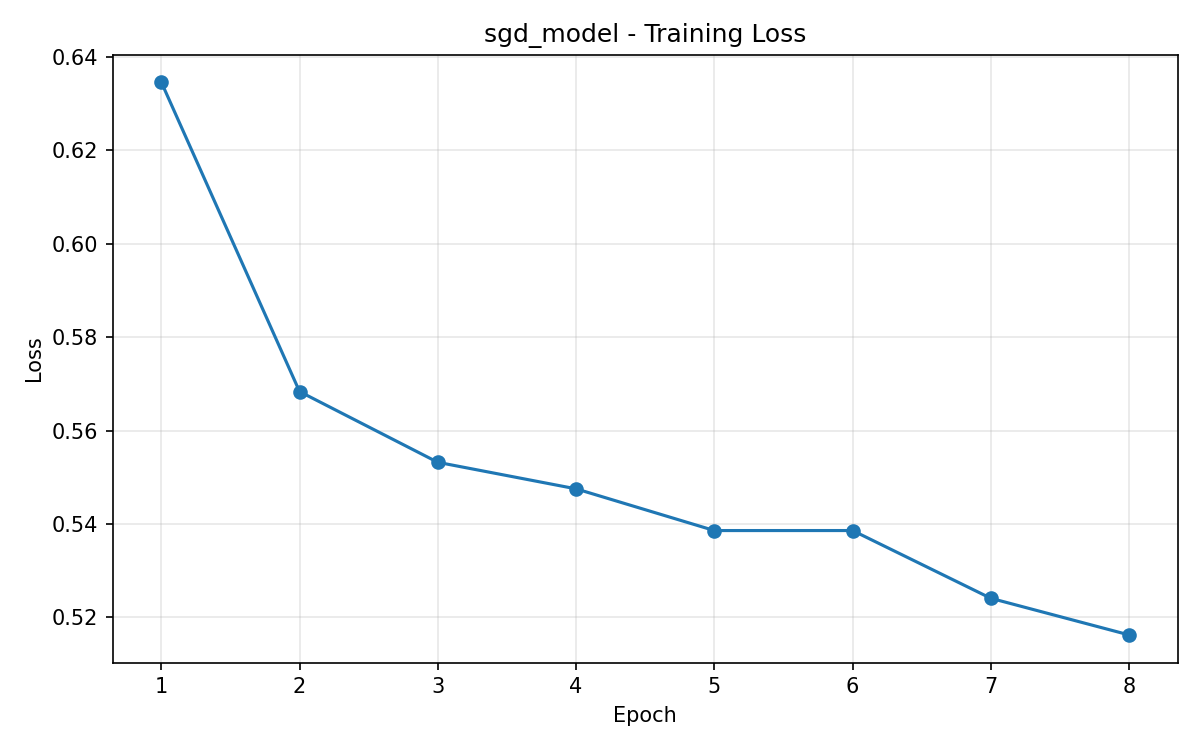
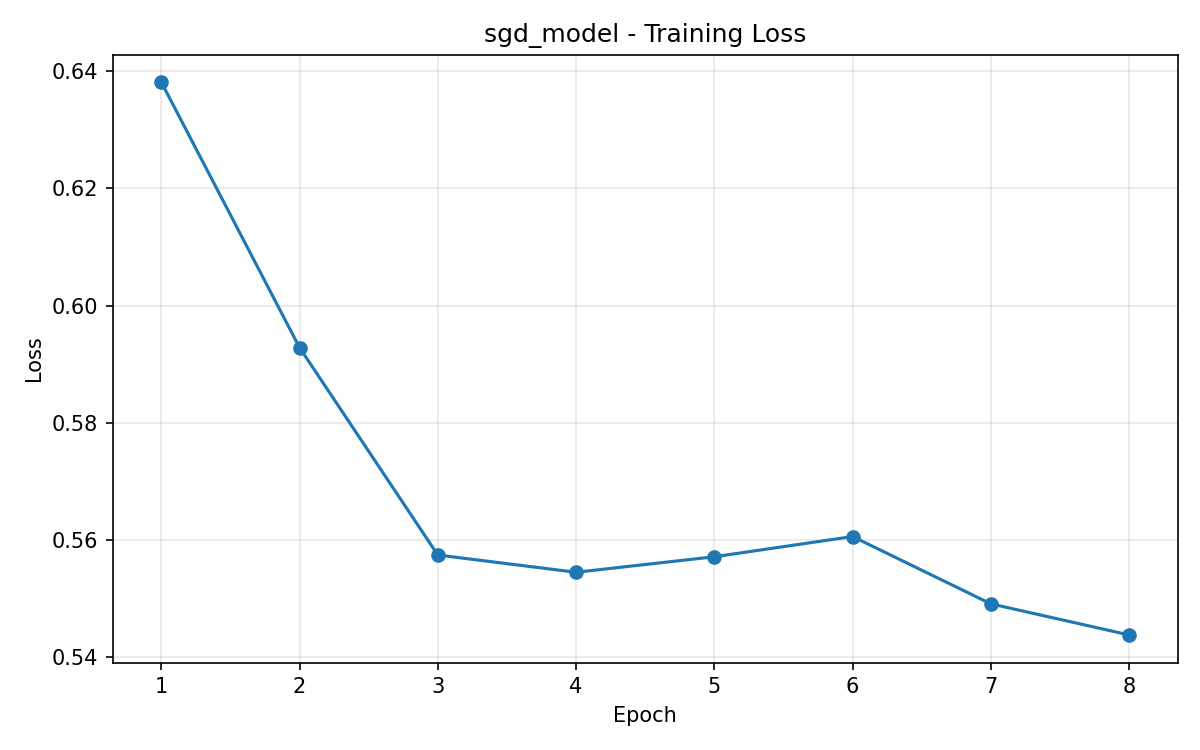
adjusted ColorJitter in supervised_learning to match

diff --git a/src/unsupervised.py b/src/unsupervised.py
@@ -56,10 +56,16 @@ def seed_everything(seed: int) -> None:
     torch.cuda.manual_seed_all(seed)
 
 
+def _load_existing_df() -> pd.DataFrame:
+    df = pd.read_csv(LABELS_CSV)
+    existing = {p.stem for p in TRAIN_DIR.glob("*.tif")}
+    return df[df["id"].isin(existing)].reset_index(drop=True)
+
+
 def sample_balanced_ids() -> list[str]:
     # Use an equal number of cancer / no-cancer patches so the learned features
     # aren't dominated by the majority class distribution.
-    df = pd.read_csv(LABELS_CSV)
+    df = _load_existing_df()
     neg = df[df["label"] == 0].sample(SAMPLES_PER_CLASS, random_state=SEED)
     pos = df[df["label"] == 1].sample(SAMPLES_PER_CLASS, random_state=SEED)
     subset = pd.concat([neg, pos]).sample(frac=1, random_state=SEED).reset_index(drop=True)
@@ -68,7 +74,7 @@ def sample_balanced_ids() -> list[str]:
 
 def sample_balanced_df() -> pd.DataFrame:
     # Same balanced subset as IDs, but keep labels for supervised evaluation.
-    df = pd.read_csv(LABELS_CSV)
+    df = _load_existing_df()
     neg = df[df["label"] == 0].sample(SAMPLES_PER_CLASS, random_state=SEED)
     pos = df[df["label"] == 1].sample(SAMPLES_PER_CLASS, random_state=SEED)
     return pd.concat([neg, pos]).sample(frac=1, random_state=SEED).reset_index(drop=True)

diff --git a/src/supervised_learning.py b/src/supervised_learning.py
@@ -141,7 +141,7 @@ def make_transforms():
             T.RandomHorizontalFlip(),
             T.RandomVerticalFlip(),
             T.RandomRotation(90),
-            T.ColorJitter(brightness=0.2, contrast=0.2, saturation=0.2, hue=0.05),
+            T.ColorJitter(brightness=0.3, contrast=0.3, saturation=0.3, hue=0.05),
             T.ToTensor(),
             T.Normalize(MEAN, STD),
         ]
@@ -156,6 +156,8 @@ def make_transforms():
 # Similar idea used in data_exploration 1,000 no-cancer + 1,000 cancer images, then a stratified split.
 def make_splits():
     df_full = pd.read_csv(LABELS_CSV)
+    existing = {p.stem for p in TRAIN_DIR.glob("*.tif")}
+    df_full = df_full[df_full["id"].isin(existing)].reset_index(drop=True)
     neg_sample = df_full[df_full["label"] == 0].sample(SAMPLES_PER_CLASS, random_state=SEED)
     pos_sample = df_full[df_full["label"] == 1].sample(SAMPLES_PER_CLASS, random_state=SEED)
     df = pd.concat([neg_sample, pos_sample]).sample(frac=1, random_state=SEED).reset_index(drop=True)
